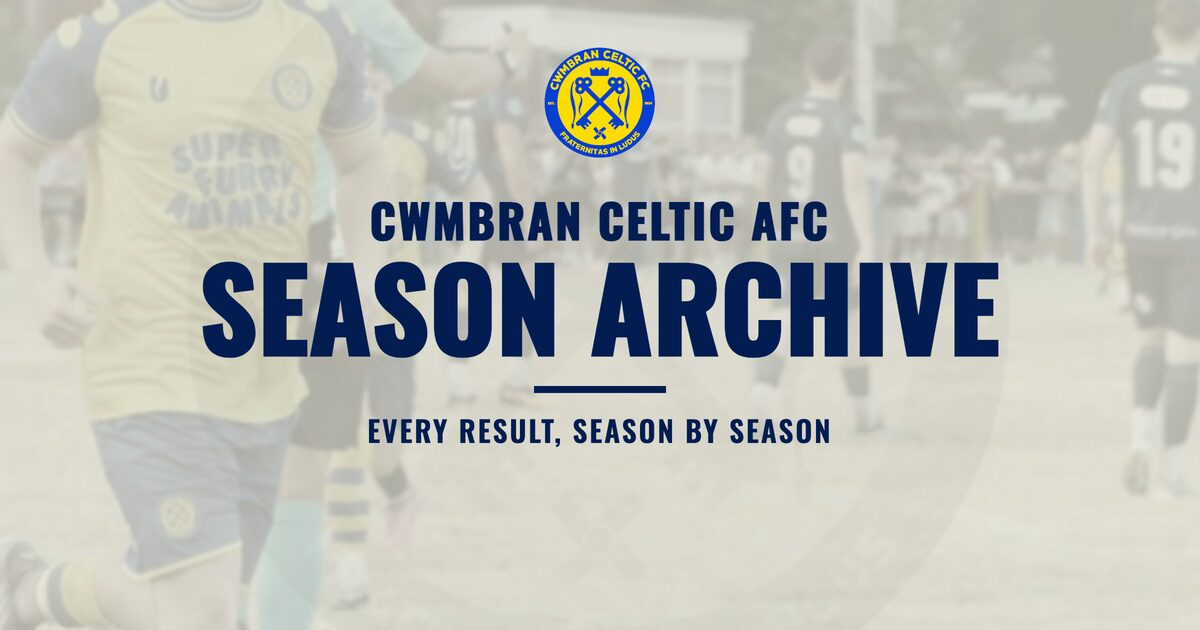
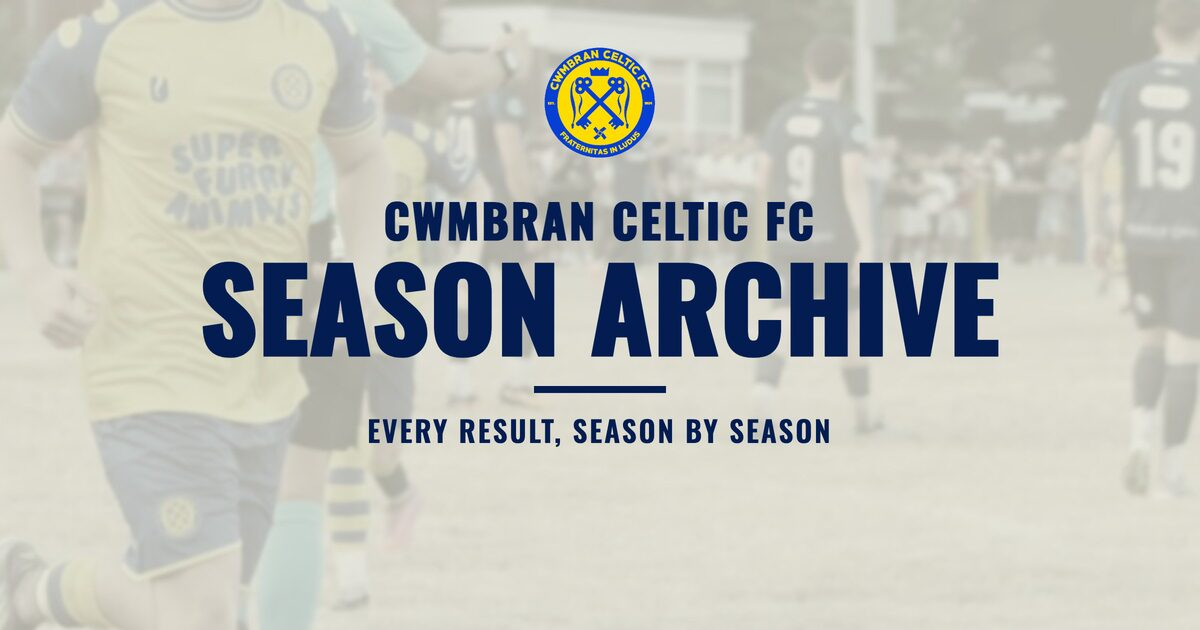
fix(theme): Celtic FC not AFC, and stop naming one league for seven teams
Three corrections to the share cards and copy.

The club is Cwmbran Celtic FC — as its own crest says. "AFC" appeared 22
times across the theme, including og:site_name and the SportsTeam and
NewsArticle JSON-LD, so the rename is site-wide rather than cosmetic.

The all-teams pages named the Ardal League South East. That is the men's
first team's league; the other six sides play in six different
competitions, so the fixtures card, the fixtures description, the front
page description and the fallback description for any page without copy
of its own all described one team and misdescribed the rest. None of
them names a league now. Away Days names its three teams instead — that
template only covers mens, reserves and womens.

Where a league IS correct — the seven squad pages — the names are now
taken from cc25_static_fixtures_static()'s own 'league' strings rather
than typed a second time, so there is one spelling of each per team.

The crest watermark is dropped from the generated cards at the club's
request. The club's own match-report cards keep theirs; only the
generated page cards change.

All 36 cards re-verified at 1200x630. All 13 _tests files pass, and the
emitted <head> was re-read for every page type.

Changed region(s): [[0.3083, 0.3016, 0.7092, 0.3921]]

diff --git a/wordpress-theme/cwmbran-celtic-2025/style.css b/wordpress-theme/cwmbran-celtic-2025/style.css
@@ -4,7 +4,7 @@ Theme URI: https://www.cwmbranceltic.com
 Description: Premium redesign for Cwmbran Celtic AFC. Child theme of Divi.
 Author: Cwmbran Celtic AFC
 Template: Divi
-Version: 0.16.1
+Version: 0.16.2
 */
 
 @font-face{font-family:"Oswald";font-style:normal;font-weight:200 700;font-display:swap;src:url("assets/fonts/oswald.woff2") format("woff2");}

diff --git a/wordpress-theme/cwmbran-celtic-2025/functions.php b/wordpress-theme/cwmbran-celtic-2025/functions.php
@@ -2789,28 +2789,33 @@ function cc25_share_pages() {
     if ($flat !== null) return $flat;
 
     $rows = array(
+        /* No league named on the all-teams pages. The seven sides play in seven
+         * different competitions, so naming one described the men's first team
+         * and misdescribed the other six. */
         array(array('fixtures', 'fixtures-results', 'fixtures-and-results'), 'page-fixtures.jpg',
-            "Every Cwmbran Celtic fixture and result, plus the live Ardal League South East table — First Team, Reserves and Women's, with tickets for home games."),
+            'Every Cwmbran Celtic fixture and result across all seven teams, with live league tables and tickets for home games.'),
         array(array('news'), 'page-news.jpg',
-            'Match reports, transfer news, club announcements and everything else happening at Cwmbran Celtic AFC.'),
+            'Match reports, transfer news, club announcements and everything else happening at Cwmbran Celtic FC.'),
         array(array('teams'), 'page-teams.jpg',
             "All seven Cwmbran Celtic sides — Men's First Team and Reserves, Women's First Team, Reserves and Under-19s, Under-18s and Vets."),
         array(array('travel', 'travel-and-ground'), 'page-travel.jpg',
             'Getting to the Motazone Arena (Celtic Park), Cwmbran — directions, free parking and matchday info for home and visiting supporters.'),
+        /* template-away-days.php covers mens, reserves and womens only — three
+         * teams in three leagues — so this names the teams, not a league. */
         array(array('away-days'), 'page-away-days.jpg',
-            'Travel guides to every Ardal League South East away ground — addresses, postcodes and directions for following the Celts on the road.'),
+            "Travel guides to every away ground for the First Team, Reserves and Women's — addresses, postcodes and directions for following the Celts on the road."),
         array(array('the-celtic-bond', 'celtic-bond', 'bond'), 'page-celtic-bond.jpg',
-            'Join the Celtic Bond and help fund Cwmbran Celtic AFC — the club lottery with cash prizes every draw. Sign up and back the Celts.'),
+            'Join the Celtic Bond and help fund Cwmbran Celtic FC — the club lottery with cash prizes every draw. Sign up and back the Celts.'),
         array(array('bond-results'), 'page-bond-results.jpg',
             'Every Celtic Bond draw result — winning numbers and prize amounts, draw by draw.'),
         array(array('sponsors', 'sponsors-2'), 'page-sponsors.jpg',
-            'The businesses backing Cwmbran Celtic AFC. Meet the sponsors who keep the Celts on the pitch.'),
+            'The businesses backing Cwmbran Celtic FC. Meet the sponsors who keep the Celts on the pitch.'),
         array(array('sponsorship', 'sponsorship-opportunities'), 'page-sponsorship.jpg',
-            'Sponsor Cwmbran Celtic AFC — shirt, board, matchball and player sponsorship packages for local businesses in Torfaen and Gwent.'),
+            'Sponsor Cwmbran Celtic FC — shirt, board, matchball and player sponsorship packages for local businesses in Torfaen and Gwent.'),
         array(array('shop'), 'page-shop.jpg',
             'The official Cwmbran Celtic club shop — replica shirts, training wear, hoodies and accessories for seniors and juniors.'),
         array(array('contact'), 'page-contact.jpg',
-            'Get in touch with Cwmbran Celtic AFC — club contacts, the Motazone Arena address, and how to reach the committee.'),
+            'Get in touch with Cwmbran Celtic FC — club contacts, the Motazone Arena address, and how to reach the committee.'),
         array(array('hospitality'), 'page-hospitality.jpg',
             'Matchday hospitality at the Motazone Arena — packages for supporters, sponsors and groups at Cwmbran Celtic.'),
         array(array('galleries', 'gallery', 'photo-gallery'), 'page-gallery.jpg',
@@ -2826,7 +2831,7 @@ function cc25_share_pages() {
         array(array('2024-25-archive', '2023-24-archive', '2022-23-archive'), 'page-archive.jpg',
             'Cwmbran Celtic season results in full — every scoreline from the archive, season by season.'),
         array(array('club-history', 'club-documents', 'heritage', 'club'), 'page-club.jpg',
-            'Cwmbran Celtic AFC — founded 1924, Fraternitas in Ludus. Club history, heritage and official documents.'),
+            'Cwmbran Celtic FC — founded 1924, Fraternitas in Ludus. Club history, heritage and official documents.'),
         array(array('tickets'), 'page-tickets.jpg',
             'Tickets for Cwmbran Celtic home games at the Motazone Arena — book online before matchday.'),
 
@@ -2839,13 +2844,13 @@ function cc25_share_pages() {
         array(array('ladies', 'ladies-team', 'ladies-1st-team', 'womens', 'womens-team'), 'page-squad-womens.jpg',
             "The Cwmbran Celtic Women's First Team squad — players, positions and squad numbers for the Genero Adran South."),
         array(array('womens-reserves'), 'page-squad-womens_res.jpg',
-            "The Cwmbran Celtic Women's Reserves squad — players and squad numbers for the South Wales Women's & Girls League."),
+            "The Cwmbran Celtic Women's Reserves squad — players and squad numbers for the SWWGL Women's Development League."),
         array(array('womens-under-19s'), 'page-squad-womens_u19.jpg',
-            "The Cwmbran Celtic Women's Under-19s squad — players and squad numbers for the Genero Adran South U19."),
+            "The Cwmbran Celtic Women's Under-19s squad — players and squad numbers for the Adran U19s."),
         array(array('under-18s'), 'page-squad-u18s.jpg',
-            "The Cwmbran Celtic Men's Under-18s squad — players and squad numbers for the Gwent Premier Youth League."),
+            "The Cwmbran Celtic Men's Under-18s squad — players and squad numbers for the Gwent County Youth League."),
         array(array('mens-vets'), 'page-squad-vets.jpg',
-            "The Cwmbran Celtic Men's Vets squad — the Over-40s side in the WVFA Workware Supermarket O40s East."),
+            "The Cwmbran Celtic Men's Vets squad — the Over-40s side in the WVFA Over-40s."),
     );
 
     $flat = array();

diff --git a/wordpress-theme/cwmbran-celtic-2025/inc/seo.php b/wordpress-theme/cwmbran-celtic-2025/inc/seo.php
@@ -14,7 +14,10 @@ if (!defined('ABSPATH')) exit;
 /** Context-aware meta description. */
 function cc25_seo_desc() {
     if (is_front_page()) {
-        return 'Official website of Cwmbran Celtic AFC — fixtures, results, the live league table, news, tickets and away-day info for the Celts in the Ardal League South East.';
+        // No league is named here. The club runs seven sides across seven
+        // different competitions, so "the Celts in the Ardal League South East"
+        // described the men's first team and quietly mis-sold the other six.
+        return 'Official website of Cwmbran Celtic FC — fixtures, results, live league tables, news, tickets and away-day info for all seven Celts sides.';
     }
     $ov = cc25_share_meta();
     if ($ov && !empty($ov['desc'])) return $ov['desc'];
@@ -24,10 +27,12 @@ function cc25_seo_desc() {
     }
     if (is_page()) {
         $tt = wp_strip_all_tags(get_the_title());
-        if ($tt) return $tt . ' — Cwmbran Celtic AFC, Ardal League South East. Fixtures, results, news and tickets for the Celts.';
+        // Deliberately league-free: this fallback lands on any page without copy
+        // of its own, including the Vets' and the U19s'.
+        if ($tt) return $tt . ' — Cwmbran Celtic FC. Fixtures, results, news and tickets for the Celts.';
     }
     $t = get_bloginfo('description');
-    return $t ? $t : 'Cwmbran Celtic AFC — blue and yellow, since 1924.';
+    return $t ? $t : 'Cwmbran Celtic FC — blue and yellow, since 1924.';
 }
 
 /** Current canonical URL. */
@@ -65,7 +70,7 @@ function cc25_seo_org() {
     return array(
         '@type' => 'SportsTeam',
         '@id'   => home_url('/#club'),
-        'name'  => 'Cwmbran Celtic AFC',
+        'name'  => 'Cwmbran Celtic FC',
         'alternateName' => 'The Celts',
         'sport' => 'Association Football',
         'url'   => home_url('/'),
@@ -159,11 +164,11 @@ function cc25_seo_head() {
     }
     // og:image:alt describes the card, not the page — screen-reader users get
     // the headline from og:title either way.
-    $imgalt = 'Cwmbran Celtic AFC';
+    $imgalt = 'Cwmbran Celtic FC';
     echo "\n<!-- Cwmbran Celtic SEO -->\n";
     echo '<meta name="description" content="' . esc_attr($desc) . "\">\n";
     echo '<link rel="canonical" href="' . esc_url($url) . "\">\n";
-    echo '<meta property="og:site_name" content="Cwmbran Celtic AFC">' . "\n";
+    echo '<meta property="og:site_name" content="Cwmbran Celtic FC">' . "\n";
     echo '<meta property="og:type" content="' . esc_attr($type) . "\">\n";
     echo '<meta property="og:title" content="' . esc_attr($title) . "\">\n";
     echo '<meta property="og:description" content="' . esc_attr($desc) . "\">\n";
@@ -193,7 +198,7 @@ function cc25_seo_head() {
             'datePublished' => get_the_date('c'),
             'dateModified' => get_the_modified_date('c'),
             'author' => array('@type' => 'Person', 'name' => cc25_byline()),
-            'publisher' => array('@type' => 'Organization', 'name' => 'Cwmbran Celtic AFC', 'logo' => array('@type' => 'ImageObject', 'url' => cc25_club_logo())),
+            'publisher' => array('@type' => 'Organization', 'name' => 'Cwmbran Celtic FC', 'logo' => array('@type' => 'ImageObject', 'url' => cc25_club_logo())),
             'mainEntityOfPage' => $url,
             'description' => $desc,
         );
@@ -208,7 +213,7 @@ function cc25_seo_head() {
         if ($m) {
             $home = !empty($m['home']); $opp = $m['opp'];
             $ct = array(
-                array('@type' => 'SportsTeam', 'name' => 'Cwmbran Celtic AFC'),
+                array('@type' => 'SportsTeam', 'name' => 'Cwmbran Celtic FC'),
                 array('@type' => 'SportsTeam', 'name' => $opp),
             );
             cc25_jsonld(array(

diff --git a/wordpress-theme/cwmbran-celtic-2025/template-kit-launch.php b/wordpress-theme/cwmbran-celtic-2025/template-kit-launch.php
@@ -39,14 +39,14 @@ $mvt_has_logo = file_exists(get_stylesheet_directory() . '/assets/img/mvt-logo.p
       <a class="btn btn-gold" href="<?php echo esc_url($k['shop_url']); ?>" target="_blank" rel="noopener">Pre-order your shirt &rarr;</a>
       <a class="btn btn-line" href="<?php echo esc_url($k['tickets_url']); ?>" target="_blank" rel="noopener">Season Tickets</a>
     </div>
-    <div class="kl-date">Cwmbran Celtic AFC &middot; <?php echo esc_html(date('j F Y', strtotime($k['date']))); ?></div>
+    <div class="kl-date">Cwmbran Celtic FC &middot; <?php echo esc_html(date('j F Y', strtotime($k['date']))); ?></div>
   </div>
 </div>
 
 <section class="band">
   <div class="wrap kl-wrap">
     <div class="kl-lede reveal">
-      <p>Cwmbran Celtic AFC has today announced a landmark shirt-sponsor partnership that unites two worlds built on the very same foundations: <b>grassroots football and grassroots music</b>. For the 2026/27 season, four of the UK's most-loved independent bands &mdash; <b>Super Furry Animals</b>, <b>Mogwai</b>, <b>Panic Shack</b> and <b>Loose Articles</b> &mdash; will feature across the front of the club's men's and women's first-team shirts.</p>
+      <p>Cwmbran Celtic FC has today announced a landmark shirt-sponsor partnership that unites two worlds built on the very same foundations: <b>grassroots football and grassroots music</b>. For the 2026/27 season, four of the UK's most-loved independent bands &mdash; <b>Super Furry Animals</b>, <b>Mogwai</b>, <b>Panic Shack</b> and <b>Loose Articles</b> &mdash; will feature across the front of the club's men's and women's first-team shirts.</p>
     </div>
     <div class="kl-body reveal">
       <p>Community, passion, and the amazing people who keep them both alive &mdash; that's what football and music at this level share. Most of the money raised through shirt sales goes directly towards supporting the club's many teams: six senior sides across the men's and women's sections, plus veterans, walking football and a full junior set-up for boys and girls. And <b>10% of the profit from every shirt</b> will be donated to <a href="<?php echo esc_url($k['mvt_url']); ?>" target="_blank" rel="noopener">Music Venue Trust</a>, the charity dedicated to protecting, securing and improving the UK's grassroots music venues.</p>

diff --git a/wordpress-theme/cwmbran-celtic-2025/front-page.php b/wordpress-theme/cwmbran-celtic-2025/front-page.php
@@ -167,9 +167,9 @@ if ($cc25_kllive && !$cc25_md): ?>
     // "Matchday at the Motazone Arena".
     $cc25_hero_fx   = $cc25_hg;
     $cc25_hero_comp = $cc25_hero_fx ? cc25_fixture_comp_label($cc25_hero_fx) : 'Ardal League South East'; ?>
-    <span class="hero-eyebrow kick"><span class="ln"></span> <?php echo $cc25_hero_fx ? 'Next Match &middot; ' . esc_html($cc25_hero_comp) : 'Cwmbran Celtic AFC &middot; ' . esc_html($cc25_hero_comp); ?></span>
+    <span class="hero-eyebrow kick"><span class="ln"></span> <?php echo $cc25_hero_fx ? 'Next Match &middot; ' . esc_html($cc25_hero_comp) : 'Cwmbran Celtic FC &middot; ' . esc_html($cc25_hero_comp); ?></span>
     <?php if ($cc25_hero_fx): ?>
-    <h1><span class="sr-only">Cwmbran Celtic AFC — </span>Matchday<br><span class="thin">at the Motazone Arena</span></h1>
+    <h1><span class="sr-only">Cwmbran Celtic FC — </span>Matchday<br><span class="thin">at the Motazone Arena</span></h1>
     <p class="hero-sub">Blue and yellow, since 1924. Follow the Celts through the <?php echo esc_html(cc25_season()); ?> season — every fixture, every result, live.</p>
     <div class="count" id="count" aria-label="Countdown to kick-off" data-ko="<?php echo intval(cc25_kickoff_ms($cc25_hero_fx)); ?>">
       <div class="u"><div class="n" id="cd-d">00</div><div class="l">Days</div></div>
@@ -181,7 +181,7 @@ if ($cc25_kllive && !$cc25_md): ?>
       <div class="u"><div class="n" id="cd-s">00</div><div class="l">Secs</div></div>
     </div>
     <?php else: ?>
-    <h1>Cwmbran Celtic AFC<br><span class="thin">The Celts &middot; Est. 1924</span></h1>
+    <h1>Cwmbran Celtic FC<br><span class="thin">The Celts &middot; Est. 1924</span></h1>
     <p class="hero-sub">Blue and yellow, since 1924. Follow the Celts through the <?php echo esc_html(cc25_season()); ?> season — every fixture, every result, and the road ahead.</p>
     <?php endif; ?>
   </div>

diff --git a/wordpress-theme/cwmbran-celtic-2025/template-parts/site-footer.php b/wordpress-theme/cwmbran-celtic-2025/template-parts/site-footer.php
@@ -8,7 +8,7 @@ if (!defined('ABSPATH')) exit;
   <div class="wrap">
     <div class="ft-grid">
       <div>
-        <h3 style="display:flex;align-items:center;gap:11px"><?php echo cc25_own_crest(34); ?> Cwmbran Celtic AFC</h3>
+        <h3 style="display:flex;align-items:center;gap:11px"><?php echo cc25_own_crest(34); ?> Cwmbran Celtic FC</h3>
         <p class="about">Ardal League South East. Playing at Motazone Arena since 1924 — proudly representing the town of Cwmbran, home and away.</p>
       </div>
       <div><h3>Club</h3>
@@ -32,7 +32,7 @@ if (!defined('ABSPATH')) exit;
     </div>
     <?php echo cc25_featured_sponsor_html('strip'); ?>
     <div class="ft-bot">
-      <span>© <?php echo esc_html(date_i18n('Y')); ?> Cwmbran Celtic AFC</span>
+      <span>© <?php echo esc_html(date_i18n('Y')); ?> Cwmbran Celtic FC</span>
       <span>Fixtures &amp; table update automatically from allwalessport</span>
     </div>
   </div>

diff --git a/wordpress-theme/cwmbran-celtic-2025/template-walking-football.php b/wordpress-theme/cwmbran-celtic-2025/template-walking-football.php
@@ -195,7 +195,7 @@ $cc25_tel   = preg_replace('/\s+/', '', $cc25_wf['phone']);
         <a class="btn btn-outline btn-block" href="<?php echo esc_url($cc25_wf['sponsorship']); ?>" target="_blank" rel="noopener">Sponsor the section</a>
       </div>
     </div>
-    <p class="spx-note reveal">Walking Football is part of Cwmbran Celtic AFC and runs its own site at <a href="<?php echo esc_url($cc25_wf['site']); ?>" target="_blank" rel="noopener">cwmbrancelticwalkingfootball.co.uk</a>.</p>
+    <p class="spx-note reveal">Walking Football is part of Cwmbran Celtic FC and runs its own site at <a href="<?php echo esc_url($cc25_wf['site']); ?>" target="_blank" rel="noopener">cwmbrancelticwalkingfootball.co.uk</a>.</p>
   </div>
 </section>
 <?php get_template_part('template-parts/site-footer'); ?>
